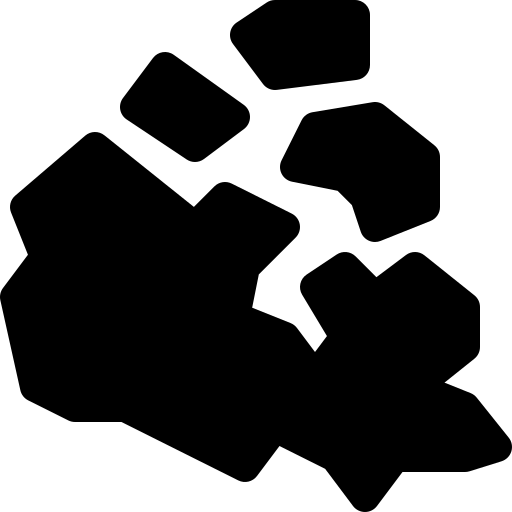
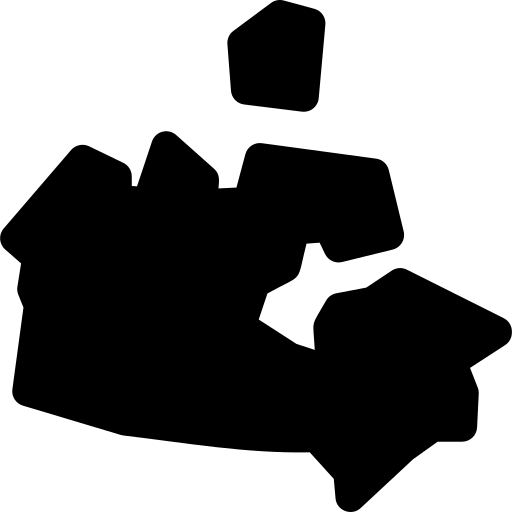
Add a huge chunk of shapes

diff --git a/data/CountryList.js b/data/CountryList.js
@@ -14,7 +14,7 @@ export const countryList = [
     { code: "AW", name: "Aruba", lat: 12.52111, lon: -69.968338, flag: require("../img/Flag_of_Aruba.svg.png"), capital: { name: "Oranjestad" }, shape: require("../img/aruba.png") },
     { code: "AU", name: "Australia", lat: -25.274398, lon: 133.775136, flag: require("../img/Flag_of_Australia_(converted).png"), capital: { name: "Canberra" }, shape: require("../img/australia.png") },
     { code: "AT", name: "Austria", lat: 47.516231, lon: 14.550072, flag: require("../img/Flag_of_Austria.png"), capital: { name: "Vienna" }, shape: require("../img/austria.png") },
-    { code: "AZ", name: "Azerbaijan", lat: 40.143105, lon: 47.576927, flag: require("../img/Flag_of_Azerbaijan.svg.png"), capital: { name: "Baku" }, shape: require("../img/azerbaijan.png")},
+    { code: "AZ", name: "Azerbaijan", lat: 40.143105, lon: 47.576927, flag: require("../img/Flag_of_Azerbaijan.svg.png"), capital: { name: "Baku" }, shape: require("../img/azerbaijan.png") },
     { code: "BS", name: "Bahamas", lat: 25.03428, lon: -77.39628, flag: require("../img/Flag_of_the_Bahamas.svg.png"), capital: { name: "Nassau" }, shape: require("../img/bahamas.png") },
     { code: "BH", name: "Bahrain", lat: 25.930414, lon: 50.637772, flag: require("../img/Flag_of_Bahrain.svg.png"), capital: { name: "Manama" }, shape: require("../img/bahrain.png") },
     { code: "BD", name: "Bangladesh", lat: 23.684994, lon: 90.356331, flag: require("../img/Flag_of_Bangladesh.svg.png"), capital: { name: "Dhaka" }, shape: require("../img/bangladesh.png") },
@@ -89,7 +89,7 @@ export const countryList = [
     { code: "GD", name: "Grenada", lat: 12.262776, lon: -61.604171, flag: require("../img/Flag_of_Grenada.svg.png"), capital: { name: "Saint George" }, shape: require("../img/grenada.png") },
     { code: "GP", name: "Guadeloupe", lat: 16.995971, lon: -62.067641 },
     { code: "GU", name: "Guam", lat: 13.444304, lon: 144.793731, flag: require("../img/640px-Flag_of_Guam.svg.png"), capital: { name: "Hagatna" } },
-    { code: "GT", name: "Guatemala", lat: 15.783471, lon: -90.230759, flag: require("../img/Flag_of_Guatemala.svg.png"), capital: { name: "Guatemala" }, shape: require("../img/guatemala.png")  },
+    { code: "GT", name: "Guatemala", lat: 15.783471, lon: -90.230759, flag: require("../img/Flag_of_Guatemala.svg.png"), capital: { name: "Guatemala" }, shape: require("../img/guatemala.png") },
     { code: "GG", name: "Guernsey", lat: 49.465691, lon: -2.585278, flag: require("../img/Flag_of_Guernsey.svg.png"), capital: { name: "Saint Peter Port" } },
     { code: "GN", name: "Guinea", lat: 9.945587, lon: -9.696645, flag: require("../img/640px-Flag_of_Guinea.svg.png"), capital: { name: "Conakry" }, shape: require("../img/guinea.png") },
     { code: "GW", name: "Guinea-Bissau", lat: 11.803749, lon: -15.180413 },
@@ -105,99 +105,99 @@ export const countryList = [
     { code: "ID", name: "Indonesia", lat: -0.789275, lon: 113.921327, flag: require("../img/Flag_of_Indonesia.png"), capital: { name: "Jakarta" }, shape: require("../img/indonesia.png") },
     { code: "IR", name: "Iran", lat: 32.427908, lon: 53.688046, flag: require("../img/640px-Flag_of_Iran.png"), capital: { name: "Tehran" }, shape: require("../img/iran.png") },
     { code: "IQ", name: "Iraq", lat: 33.223191, lon: 43.679291, flag: require("../img/Flag_of_Iraq.png"), capital: { name: "Baghdad" }, shape: require("../img/iraq.png") },
-    { code: "IE", name: "Ireland", lat: 53.41291, lon: -8.24389, flag: require("../img/Flag_of_Ireland.png"), capital: { name: "Dublin" } },
+    { code: "IE", name: "Ireland", lat: 53.41291, lon: -8.24389, flag: require("../img/Flag_of_Ireland.png"), capital: { name: "Dublin" }, shape: require("../img/ireland.png") },
     { code: "IM", name: "Isle of Man", lat: 54.236107, lon: -4.548056, flag: require("../img/Flag_of_the_Isle_of_Mann.png"), capital: { name: "Douglas" } },
-    { code: "IL", name: "Israel", lat: 31.046051, lon: 34.851612, flag: require("../img/640px-Flag_of_Israel.png"), capital: { name: "Jerusalem" } },
-    { code: "IT", name: "Italy", lat: 41.87194, lon: 12.56738, flag: require("../img/Flag_of_Italy.png"), capital: { name: "Rome" } },
+    { code: "IL", name: "Israel", lat: 31.046051, lon: 34.851612, flag: require("../img/640px-Flag_of_Israel.png"), capital: { name: "Jerusalem" }, shape: require("../img/israel.png") },
+    { code: "IT", name: "Italy", lat: 41.87194, lon: 12.56738, flag: require("../img/Flag_of_Italy.png"), capital: { name: "Rome" }, shape: require("../img/italy.png") },
     { code: "JM", name: "Jamaica", lat: 18.109581, lon: -77.297508, flag: require("../img/Flag_of_Jamaica.png"), capital: { name: "Kingston" }, shape: require("../img/jamaica.png") },
-    { code: "JP", name: "Japan", lat: 36.204824, lon: 138.252924, flag: require("../img/Flag_of_Japan.png"), capital: { name: "Tokyo" } },
+    { code: "JP", name: "Japan", lat: 36.204824, lon: 138.252924, flag: require("../img/Flag_of_Japan.png"), capital: { name: "Tokyo" }, shape: require("../img/japan.png") },
     { code: "JE", name: "Jersey", lat: 49.214439, lon: -2.13125, flag: require("../img/Flag_of_Jersey.svg.png"), capital: { name: "Saint Helier" } },
-    { code: "JO", name: "Jordan", lat: 30.585164, lon: 36.238414, flag: require("../img/640px-Flag_of_Jordan.svg.png"), capital: { name: "Amman" }, shape: require("../img/jordan.png")  },
-    { code: "KZ", name: "Kazakhstan", lat: 48.019573, lon: 66.923684, flag: require("../img/640px-Flag_of_Kazakhstan.png"), capital: { name: "Nur Sultan" } },
-    { code: "KE", name: "Kenya", lat: -0.023559, lon: 37.906193, flag: require("../img/640px-Flag_of_Kenya.png"), capital: { name: "Nairobi" } },
+    { code: "JO", name: "Jordan", lat: 30.585164, lon: 36.238414, flag: require("../img/640px-Flag_of_Jordan.svg.png"), capital: { name: "Amman" }, shape: require("../img/jordan.png") },
+    { code: "KZ", name: "Kazakhstan", lat: 48.019573, lon: 66.923684, flag: require("../img/640px-Flag_of_Kazakhstan.png"), capital: { name: "Nur Sultan" }, shape: require("../img/kazakhstan.png") },
+    { code: "KE", name: "Kenya", lat: -0.023559, lon: 37.906193, flag: require("../img/640px-Flag_of_Kenya.png"), capital: { name: "Nairobi" }, shape: require("../img/kenya.png") },
     { code: "KI", name: "Kiribati", lat: -3.370417, lon: -168.734039 },
-    { code: "KP", name: "North Korea", lat: 40.339852, lon: 127.510093, flag: require("../img/Flag_of_North_Korea.png"), capital: { name: "Pyongyang" }  },
-    { code: "KR", name: "South Korea", lat: 35.907757, lon: 127.766922, flag: require("../img/Flag_of_South_Korea.png"), capital: { name: "Seoul" } },
-    { code: "KW", name: "Kuwait", lat: 29.31166, lon: 47.481766 },
-    { code: "KG", name: "Kyrgyzstan", lat: 41.20438, lon: 74.766098, flag: require("../img/Flag_of_Kyrgyzstan.svg.png"), capital: { name: "Bishkek" } },
-    { code: "LA", name: "Laos", lat: 19.85627, lon: 102.495496, flag: require("../img/Flag_of_Laos.svg.png"), capital: { name: "Vientiane" } },
-    { code: "LV", name: "Latvia", lat: 56.879635, lon: 24.603189, flag: require("../img/640px-Flag_of_Latvia.png"), capital: { name: "Riga" } },
-    { code: "LB", name: "Lebanon", lat: 33.854721, lon: 35.862285, flag: require("../img/640px-Flag_of_Lebanon.svg.png"), capital: { name: "Beirut" } },
-    { code: "LS", name: "Lesotho", lat: -29.609988, lon: 28.233608, flag: require("../img/Flag_of_Lesotho.svg.png"), capital: { name: "Maseru" } },
-    { code: "LR", name: "Liberia", lat: 6.428055, lon: -9.429499, flag: require("../img/Flag_of_Liberia.svg.png"), capital: { name: "Monrovia" } },
-    { code: "LY", name: "Libya", lat: 26.3351, lon: 17.228331, flag: require("../img/Flag_of_Libya.svg.png"), capital: { name: "Tripoli" } },
+    { code: "KP", name: "North Korea", lat: 40.339852, lon: 127.510093, flag: require("../img/Flag_of_North_Korea.png"), capital: { name: "Pyongyang" }, shape: require("../img/north-korea.png") },
+    { code: "KR", name: "South Korea", lat: 35.907757, lon: 127.766922, flag: require("../img/Flag_of_South_Korea.png"), capital: { name: "Seoul" }, shape: require("../img/south-korea.png") },
+    { code: "KW", name: "Kuwait", lat: 29.31166, lon: 47.481766, shape: require("../img/kuwait.png") },
+    { code: "KG", name: "Kyrgyzstan", lat: 41.20438, lon: 74.766098, flag: require("../img/Flag_of_Kyrgyzstan.svg.png"), capital: { name: "Bishkek" }, shape: require("../img/kyrgyzstan.png") },
+    { code: "LA", name: "Laos", lat: 19.85627, lon: 102.495496, flag: require("../img/Flag_of_Laos.svg.png"), capital: { name: "Vientiane" }, shape: require("../img/laos.png") },
+    { code: "LV", name: "Latvia", lat: 56.879635, lon: 24.603189, flag: require("../img/640px-Flag_of_Latvia.png"), capital: { name: "Riga" }, shape: require("../img/latvia.png") },
+    { code: "LB", name: "Lebanon", lat: 33.854721, lon: 35.862285, flag: require("../img/640px-Flag_of_Lebanon.svg.png"), capital: { name: "Beirut" }, shape: require("../img/lebanon.png") },
+    { code: "LS", name: "Lesotho", lat: -29.609988, lon: 28.233608, flag: require("../img/Flag_of_Lesotho.svg.png"), capital: { name: "Maseru" }, shape: require("../img/lesotho.png") },
+    { code: "LR", name: "Liberia", lat: 6.428055, lon: -9.429499, flag: require("../img/Flag_of_Liberia.svg.png"), capital: { name: "Monrovia" }, shape: require("../img/liberia.png") },
+    { code: "LY", name: "Libya", lat: 26.3351, lon: 17.228331, flag: require("../img/Flag_of_Libya.svg.png"), capital: { name: "Tripoli" }, shape: require("../img/libya.png") },
     { code: "LI", name: "Liechtenstein", lat: 47.166, lon: 9.555373, flag: require("../img/320px-Flag_of_Liechtenstein.png"), capital: { name: "Vaduz" } },
-    { code: "LT", name: "Lithuania", lat: 55.169438, lon: 23.881275, flag: require("../img/320px-Flag_of_Lithuania.png"), capital: { name: "Vilnus" }, shape: require("../img/lithuania.png")  },
-    { code: "LU", name: "Luxembourg", lat: 49.815273, lon: 6.129583, flag: require("../img/320px-Flag_of_Luxembourg.png"), capital: { name: "Luxembourg" } },
-    { code: "MK", name: "Macedonia (North)", lat: 41.608635, lon: 21.745275, flag: require("../img/Flag_of_North_Macedonia.png"), capital: { name: "Skopje" } },
-    { code: "MG", name: "Madagascar", lat: -18.766947, lon: 46.869107, flag: require("../img/640px-Flag_of_Madagascar.svg.png"), capital: { name: "Antananarivo" }, shape: require("../img/madagascar.png")  },
-    { code: "MW", name: "Malawi", lat: -13.254308, lon: 34.301525 },
-    { code: "MY", name: "Malaysia", lat: 4.210484, lon: 101.975766, flag: require("../img/Flag_of_Malaysia.png"), capital: { name: "Kuala Lumpur" } },
+    { code: "LT", name: "Lithuania", lat: 55.169438, lon: 23.881275, flag: require("../img/320px-Flag_of_Lithuania.png"), capital: { name: "Vilnus" }, shape: require("../img/lithuania.png") },
+    { code: "LU", name: "Luxembourg", lat: 49.815273, lon: 6.129583, flag: require("../img/320px-Flag_of_Luxembourg.png"), capital: { name: "Luxembourg" }, shape: require("../img/luxembourg.png") },
+    { code: "MK", name: "North Macedonia", lat: 41.608635, lon: 21.745275, flag: require("../img/Flag_of_North_Macedonia.png"), capital: { name: "Skopje" }, shape: require("../img/macedonia.png")  },
+    { code: "MG", name: "Madagascar", lat: -18.766947, lon: 46.869107, flag: require("../img/640px-Flag_of_Madagascar.svg.png"), capital: { name: "Antananarivo" }, shape: require("../img/madagascar.png") },
+    { code: "MW", name: "Malawi", lat: -13.254308, lon: 34.301525, shape: require("../img/malawi.png")  },
+    { code: "MY", name: "Malaysia", lat: 4.210484, lon: 101.975766, flag: require("../img/Flag_of_Malaysia.png"), capital: { name: "Kuala Lumpur" }, shape: require("../img/malaysia.png")  },
     { code: "MV", name: "Maldives", lat: 3.202778, lon: 73.22068, flag: require("../img/Flag_of_Maldives.svg.png"), capital: { name: "Male" } },
-    { code: "ML", name: "Mali", lat: 17.570692, lon: -3.996166, flag: require("../img/640px-Flag_of_Mali.svg.png"), capital: { name: "Bamako" } },
-    { code: "MT", name: "Malta", lat: 35.937496, lon: 14.375416, flag: require("../img/Flag_of_Malta.png"), capital: { name: "Valetta" } },
+    { code: "ML", name: "Mali", lat: 17.570692, lon: -3.996166, flag: require("../img/640px-Flag_of_Mali.svg.png"), capital: { name: "Bamako" }, shape: require("../img/mali.png")  },
+    { code: "MT", name: "Malta", lat: 35.937496, lon: 14.375416, flag: require("../img/Flag_of_Malta.png"), capital: { name: "Valetta" }, shape: require("../img/malta.png")  },
     { code: "MH", name: "Marshall Islands", lat: 7.131474, lon: 171.184478, flag: require("../img/Flag_of_the_Marshall_Islands.svg.png"), capital: { name: "Majuro" } },
-    { code: "MQ", name: "Martinique", lat: 14.641528, lon: -61.024174 },
-    { code: "MR", name: "Mauritania", lat: 21.00789, lon: -10.940835 },
-    { code: "MU", name: "Mauritius", lat: -20.348404, lon: 57.552152 },
+    { code: "MQ", name: "Martinique", lat: 14.641528, lon: -61.024174, shape: require("../img/martinique.png")  },
+    { code: "MR", name: "Mauritania", lat: 21.00789, lon: -10.940835, shape: require("../img/mauritania.png")  },
+    { code: "MU", name: "Mauritius", lat: -20.348404, lon: 57.552152, shape: require("../img/mauritius.png")  },
     { code: "YT", name: "Mayotte", lat: -12.8275, lon: 45.166244 },
-    { code: "MX", name: "Mexico", lat: 23.634501, lon: -102.552784, flag: require("../img/Flag_of_Mexico.png"), capital: { name: "Mexico City" } },
+    { code: "MX", name: "Mexico", lat: 23.634501, lon: -102.552784, flag: require("../img/Flag_of_Mexico.png"), capital: { name: "Mexico City" }, shape: require("../img/mexican-republic-map-black-shape.png")  },
     { code: "FM", name: "Micronesia", lat: 7.425554, lon: 150.550812 },
-    { code: "MD", name: "Moldova", lat: 47.411631, lon: 28.369885, flag: require("../img/Flag_of_Moldova.png"), capital: { name: "Chisinau" } },
-    { code: "MC", name: "Monaco", lat: 43.750298, lon: 7.41284, flag: require("../img/Flag_of_Monaco.png"), capital: { name: "Monaco" } },
-    { code: "MN", name: "Mongolia", lat: 46.862496, lon: 103.846656, flag: require("../img/Flag_of_Mongolia.png"), capital: { name: "Ulaanbaatar" } },
-    { code: "ME", name: "Montenegro", lat: 42.708678, lon: 19.37439, flag: require("../img/Flag_of_Montenegro.png"), capital: { name: "Podgorica" } },
-    { code: "MS", name: "Montserrat", lat: 16.742498, lon: -62.187366 },
+    { code: "MD", name: "Moldova", lat: 47.411631, lon: 28.369885, flag: require("../img/Flag_of_Moldova.png"), capital: { name: "Chisinau" }, shape: require("../img/moldova.png")  },
+    { code: "MC", name: "Monaco", lat: 43.750298, lon: 7.41284, flag: require("../img/Flag_of_Monaco.png"), capital: { name: "Monaco" }, shape: require("../img/monaco.png")  },
+    { code: "MN", name: "Mongolia", lat: 46.862496, lon: 103.846656, flag: require("../img/Flag_of_Mongolia.png"), capital: { name: "Ulaanbaatar" }, shape: require("../img/mongolia.png")  },
+    { code: "ME", name: "Montenegro", lat: 42.708678, lon: 19.37439, flag: require("../img/Flag_of_Montenegro.png"), capital: { name: "Podgorica" }, shape: require("../img/montenegro.png") },
+    { code: "MS", name: "Montserrat", lat: 16.742498, lon: -62.187366, shape: require("../img/montserrat.png") },
     { code: "MA", name: "Morocco", lat: 31.791702, lon: -7.09262, flag: require("../img/Flag_of_Morocco.png"), capital: { name: "Rabat" }, shape: require("../img/morocco.png") },
-    { code: "MZ", name: "Mozambique", lat: -18.665695, lon: 35.529562 },
-    { code: "MM", name: "Myanmar", lat: 21.913965, lon: 95.956223 },
-    { code: "NA", name: "Namibia", lat: -22.95764, lon: 18.49041 },
-    { code: "NR", name: "Nauru", lat: -0.522778, lon: 166.931503 },
-    { code: "NP", name: "Nepal", lat: 28.394857, lon: 84.124008, flag: require("../img/Flag_of_Nepal.png"), capital: { name: "Kathmandu" } },
-    { code: "NL", name: "Netherlands", lat: 52.132633, lon: 5.291266, flag: require("../img/512px-Flag_of_the_Netherlands.png"), emoji: "🇳🇱", capital: { name: "Amsterdam", icon: "../img/amsterdam.png" } },
+    { code: "MZ", name: "Mozambique", lat: -18.665695, lon: 35.529562, shape: require("../img/mozambique.png") },
+    { code: "MM", name: "Myanmar", lat: 21.913965, lon: 95.956223, shape: require("../img/myanmar.png") },
+    { code: "NA", name: "Namibia", lat: -22.95764, lon: 18.49041, shape: require("../img/namibia.png") },
+    { code: "NR", name: "Nauru", lat: -0.522778, lon: 166.931503, shape: require("../img/nauru.png") },
+    { code: "NP", name: "Nepal", lat: 28.394857, lon: 84.124008, flag: require("../img/Flag_of_Nepal.png"), capital: { name: "Kathmandu" }, shape: require("../img/nepal.png") },
+    { code: "NL", name: "Netherlands", lat: 52.132633, lon: 5.291266, flag: require("../img/512px-Flag_of_the_Netherlands.png"), emoji: "🇳🇱", capital: { name: "Amsterdam", icon: "../img/amsterdam.png" }, shape: require("../img/netherlands.png") },
     { code: "NC", name: "New Caledonia", lat: -20.904305, lon: 165.618042 },
-    { code: "NZ", name: "New Zealand", lat: -40.900557, lon: 174.885971, flag: require("../img/Flag_of_New_Zealand.png"), capital: {name: "Wellington"} },
-    { code: "NI", name: "Nicaragua", lat: 12.865416, lon: -85.207229, flag: require("../img/256px-Flag_of_Nicaragua.svg.png"), capital: {name: "Managua"} },
-    { code: "NE", name: "Niger", lat: 17.607789, lon: 8.081666, flag: require("../img/512px-Flag_of_Niger.svg.png"), capital: {name: "Niamey"} },
-    { code: "NG", name: "Nigeria", lat: 9.081999, lon: 8.675277 },
+    { code: "NZ", name: "New Zealand", lat: -40.900557, lon: 174.885971, flag: require("../img/Flag_of_New_Zealand.png"), capital: { name: "Wellington" } },
+    { code: "NI", name: "Nicaragua", lat: 12.865416, lon: -85.207229, flag: require("../img/256px-Flag_of_Nicaragua.svg.png"), capital: { name: "Managua" }, shape: require("../img/nicaragua.png") },
+    { code: "NE", name: "Niger", lat: 17.607789, lon: 8.081666, flag: require("../img/512px-Flag_of_Niger.svg.png"), capital: { name: "Niamey" }, shape: require("../img/niger.png") },
+    { code: "NG", name: "Nigeria", lat: 9.081999, lon: 8.675277, shape: require("../img/nigeria.png") },
     { code: "NU", name: "Niue", lat: -19.054445, lon: -169.867233 },
     { code: "NF", name: "Norfolk Island", lat: -29.040835, lon: 167.954712 },
     { code: "MP", name: "Northern Mariana Islands", lat: 17.33083, lon: 145.38469 },
-    { code: "NO", name: "Norway", lat: 60.472024, lon: 8.468946 },
-    { code: "OM", name: "Oman", lat: 21.512583, lon: 55.923255 },
-    { code: "PK", name: "Pakistan", lat: 30.375321, lon: 69.345116 },
-    { code: "PW", name: "Palau", lat: 7.51498, lon: 134.58252 },
-    { code: "PS", name: "Palestine, State of", lat: 31.952162, lon: 35.233154 },
-    { code: "PA", name: "Panama", lat: 8.537981, lon: -80.782127 },
-    { code: "PG", name: "Papua New Guinea", lat: -6.314993, lon: 143.95555 },
-    { code: "PY", name: "Paraguay", lat: -23.442503, lon: -58.443832 },
-    { code: "PE", name: "Peru", lat: -9.189967, lon: -75.015152 },
-    { code: "PH", name: "Philippines", lat: 12.879721, lon: 121.774017 },
+    { code: "NO", name: "Norway", lat: 60.472024, lon: 8.468946, shape: require("../img/norway.png") },
+    { code: "OM", name: "Oman", lat: 21.512583, lon: 55.923255, shape: require("../img/oman.png") },
+    { code: "PK", name: "Pakistan", lat: 30.375321, lon: 69.345116, shape: require("../img/pakistan.png") },
+    { code: "PW", name: "Palau", lat: 7.51498, lon: 134.58252, shape: require("../img/palau.png") },
+    { code: "PS", name: "Palestine", lat: 31.952162, lon: 35.233154, shape: require("../img/palestine.png") },
+    { code: "PA", name: "Panama", lat: 8.537981, lon: -80.782127, shape: require("../img/panama.png") },
+    { code: "PG", name: "Papua New Guinea", lat: -6.314993, lon: 143.95555, shape: require("../img/papua-new-guinea.png") },
+    { code: "PY", name: "Paraguay", lat: -23.442503, lon: -58.443832, shape: require("../img/paraguay.png") },
+    { code: "PE", name: "Peru", lat: -9.189967, lon: -75.015152, shape: require("../img/peru.png") },
+    { code: "PH", name: "Philippines", lat: 12.879721, lon: 121.774017, shape: require("../img/philippines.png") },
     { code: "PN", name: "Pitcairn", lat: -24.703615, lon: -127.439308 },
-    { code: "PL", name: "Poland", lat: 51.919438, lon: 19.145136 },
-    { code: "PT", name: "Portugal", lat: 39.399872, lon: -8.224454 },
-    { code: "PR", name: "Puerto Rico", lat: 18.220833, lon: -66.590149 },
-    { code: "QA", name: "Qatar", lat: 25.354826, lon: 51.183884 },
+    { code: "PL", name: "Poland", lat: 51.919438, lon: 19.145136, shape: require("../img/poland.png") },
+    { code: "PT", name: "Portugal", lat: 39.399872, lon: -8.224454, shape: require("../img/portugal.png") },
+    { code: "PR", name: "Puerto Rico", lat: 18.220833, lon: -66.590149, shape: require("../img/puerto-rico.png") },
+    { code: "QA", name: "Qatar", lat: 25.354826, lon: 51.183884, shape: require("../img/qatar.png") },
     { code: "RE", name: "R\u00e9union", lat: -21.115141, lon: 55.536384 },
-    { code: "RO", name: "Romania", lat: 45.943161, lon: 24.96676 },
-    { code: "RU", name: "Russian Federation", lat: 61.52401, lon: 105.318756, emoji: '💩' },
-    { code: "RW", name: "Rwanda", lat: -1.940278, lon: 29.873888 },
+    { code: "RO", name: "Romania", lat: 45.943161, lon: 24.96676, shape: require("../img/romania.png") },
+    { code: "RU", name: "Russian Federation", lat: 61.52401, lon: 105.318756, emoji: '💩', shape: require("../img/russia.png") },
+    { code: "RW", name: "Rwanda", lat: -1.940278, lon: 29.873888, shape: require("../img/rwanda.png") },
     // { code: "BL", name: "Saint Barth\u00e9lemy" },
     { code: "SH", name: "Saint Helena, Ascension and Tristan da Cunha", lat: -24.143474, lon: -10.030696 },
-    { code: "KN", name: "Saint Kitts and Nevis", lat: 17.357822, lon: -62.782998 },
-    { code: "LC", name: "Saint Lucia", lat: 13.909444, lon: -60.978893 },
+    { code: "KN", name: "Saint Kitts and Nevis", lat: 17.357822, lon: -62.782998, shape: require("../img/saint-kitts-and-nevis.png") },
+    { code: "LC", name: "Saint Lucia", lat: 13.909444, lon: -60.978893, shape: require("../img/saint-lucia.png") },
     // { code: "MF", name: "Saint Martin (French part)" },
     { code: "PM", name: "Saint Pierre and Miquelon", lat: 46.941936, lon: -56.27111 },
-    { code: "VC", name: "Saint Vincent and the Grenadines", lat: 12.984305, lon: -61.287228 },
+    { code: "VC", name: "Saint Vincent and the Grenadines", lat: 12.984305, lon: -61.287228, shape: require("../img/saint-vincent-and-the-grenadines.png") },
     { code: "WS", name: "Samoa", lat: -13.759029, lon: -172.104629 },
-    { code: "SM", name: "San Marino", lat: 43.94236, lon: 12.457777 },
-    { code: "ST", name: "Sao Tome and Principe", lat: 0.18636, lon: 6.613081 },
-    { code: "SA", name: "Saudi Arabia", lat: 23.885942, lon: 45.079162 },
-    { code: "SN", name: "Senegal", lat: 14.497401, lon: -14.452362 },
-    { code: "RS", name: "Serbia", lat: 44.016521, lon: 21.005859 },
-    { code: "SC", name: "Seychelles", lat: -4.679574, lon: 55.491977 },
-    { code: "SL", name: "Sierra Leone", lat: 8.460555, lon: -11.779889 },
-    { code: "SG", name: "Singapore", lat: 1.352083, lon: 103.819836 },
+    { code: "SM", name: "San Marino", lat: 43.94236, lon: 12.457777, shape: require("../img/san-marino.png") },
+    { code: "ST", name: "Sao Tome and Principe", lat: 0.18636, lon: 6.613081, shape: require("../img/sao-tome-and-principe.png") },
+    { code: "SA", name: "Saudi Arabia", lat: 23.885942, lon: 45.079162, shape: require("../img/saudi-arabia.png") },
+    { code: "SN", name: "Senegal", lat: 14.497401, lon: -14.452362, shape: require("../img/senegal.png") },
+    { code: "RS", name: "Serbia", lat: 44.016521, lon: 21.005859, shape: require("../img/serbia.png") },
+    { code: "SC", name: "Seychelles", lat: -4.679574, lon: 55.491977, shape: require("../img/seychelles.png") },
+    { code: "SL", name: "Sierra Leone", lat: 8.460555, lon: -11.779889, shape: require("../img/sierra-leone.png") },
+    { code: "SG", name: "Singapore", lat: 1.352083, lon: 103.819836, shape: require("../img/singapore.png") },
     // { code: "SX", name: "Sint Maarten" },
     { code: "SK", name: "Slovakia", lat: 48.669026, lon: 19.699024 },
     { code: "SI", name: "Slovenia", lat: 46.151241, lon: 14.995463 },

diff --git a/util/GameNumber.js b/util/GameNumber.js
@@ -10,7 +10,7 @@ function generateConsistentRandomGameNumber() {
 export function generateConsistentRandomNumber(hash, limit) {
     // First hash, based on the date
     const today = new Date();
-    const firstHash = (today.getDate() + hash + today.getMonth() * 11);
+    const firstHash = (today.getDate() + hash + today.getMonth() * 11) % limit;
 
     // Second hash, based on a country's name
     let secondHash = 0;
